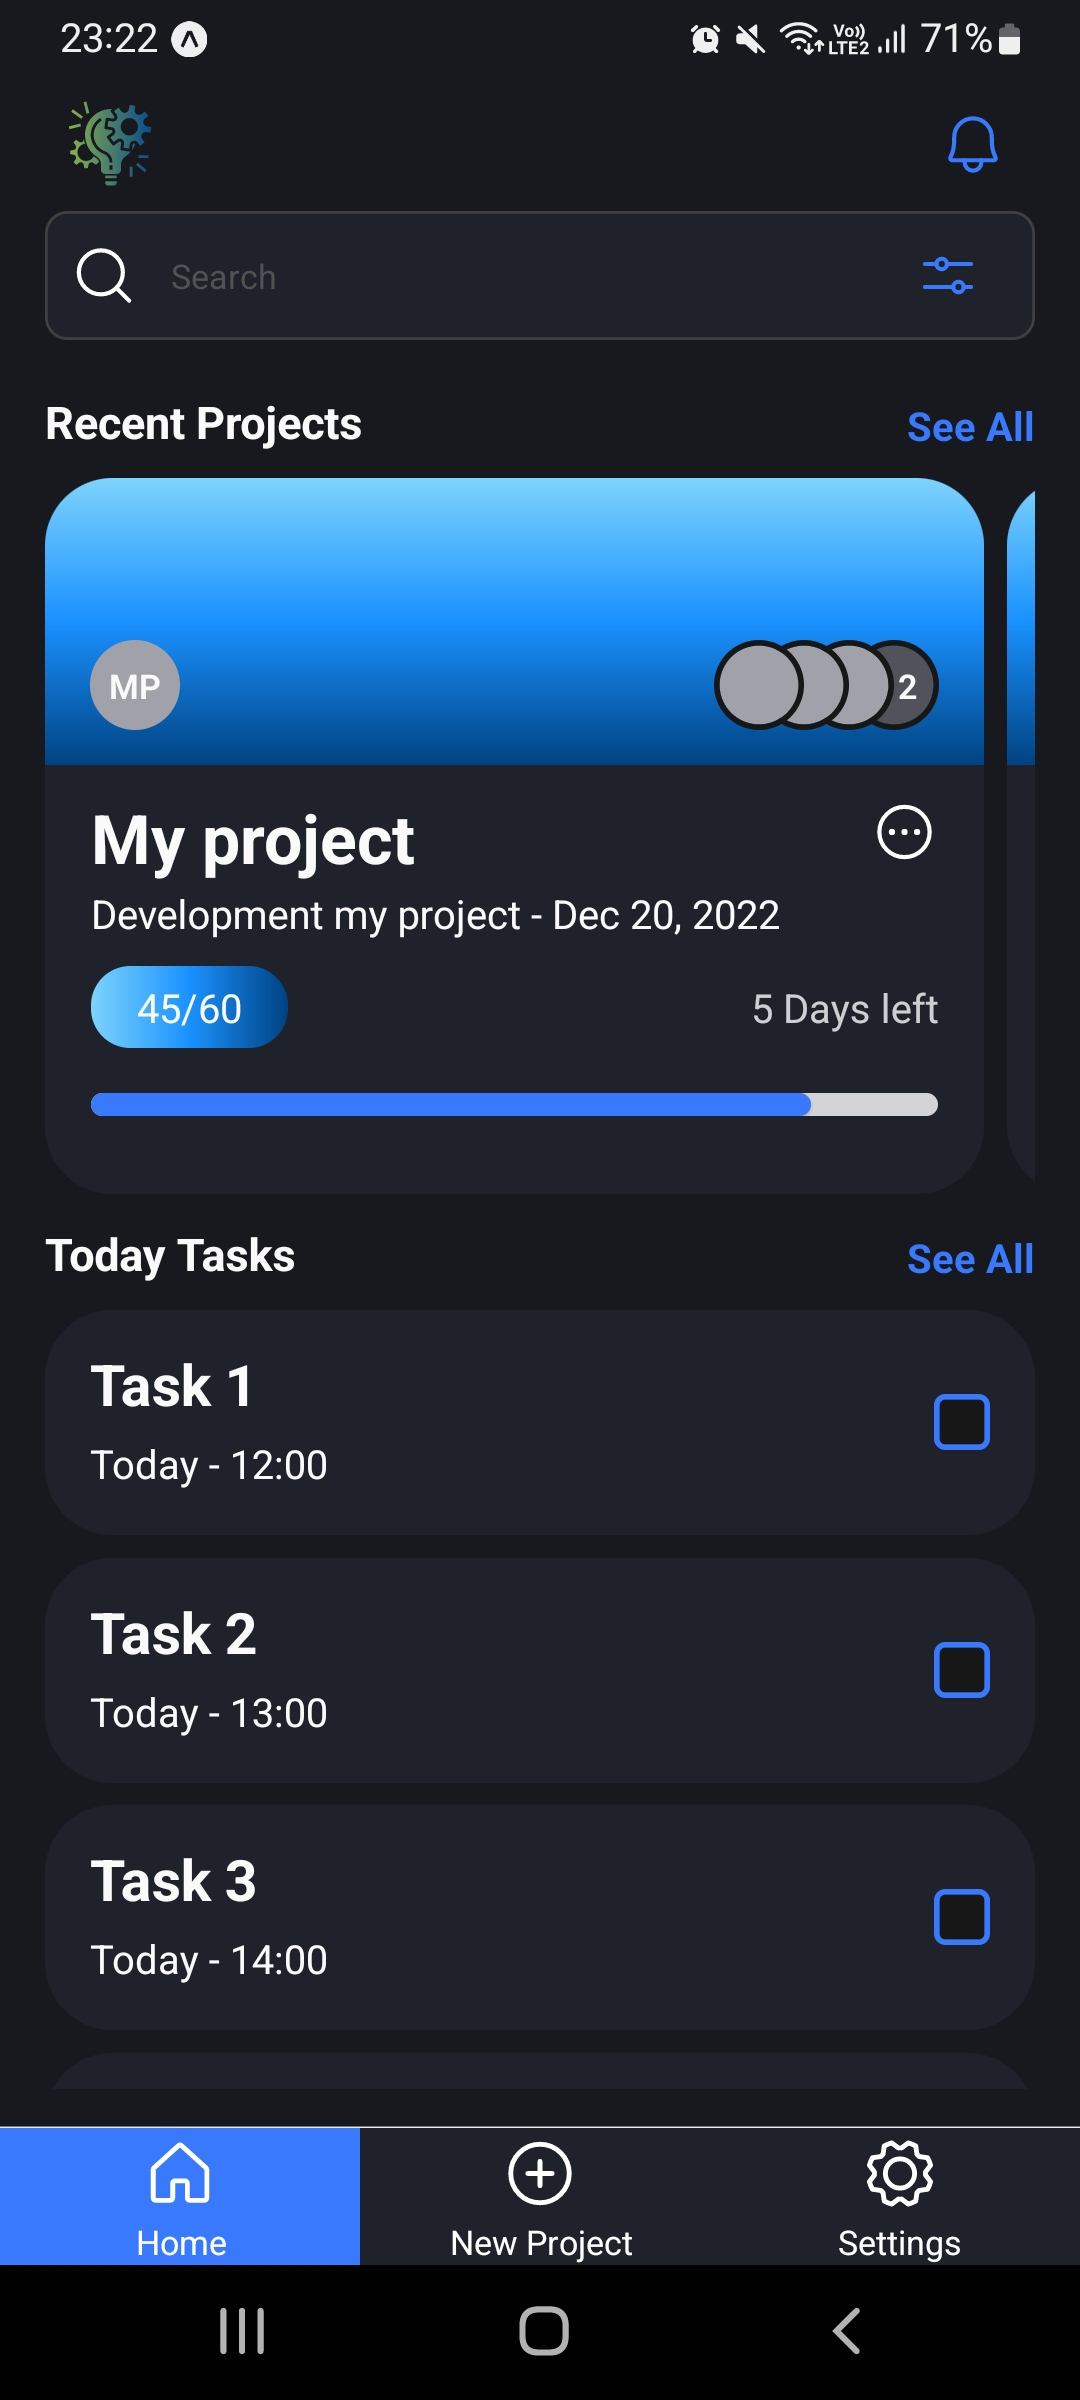
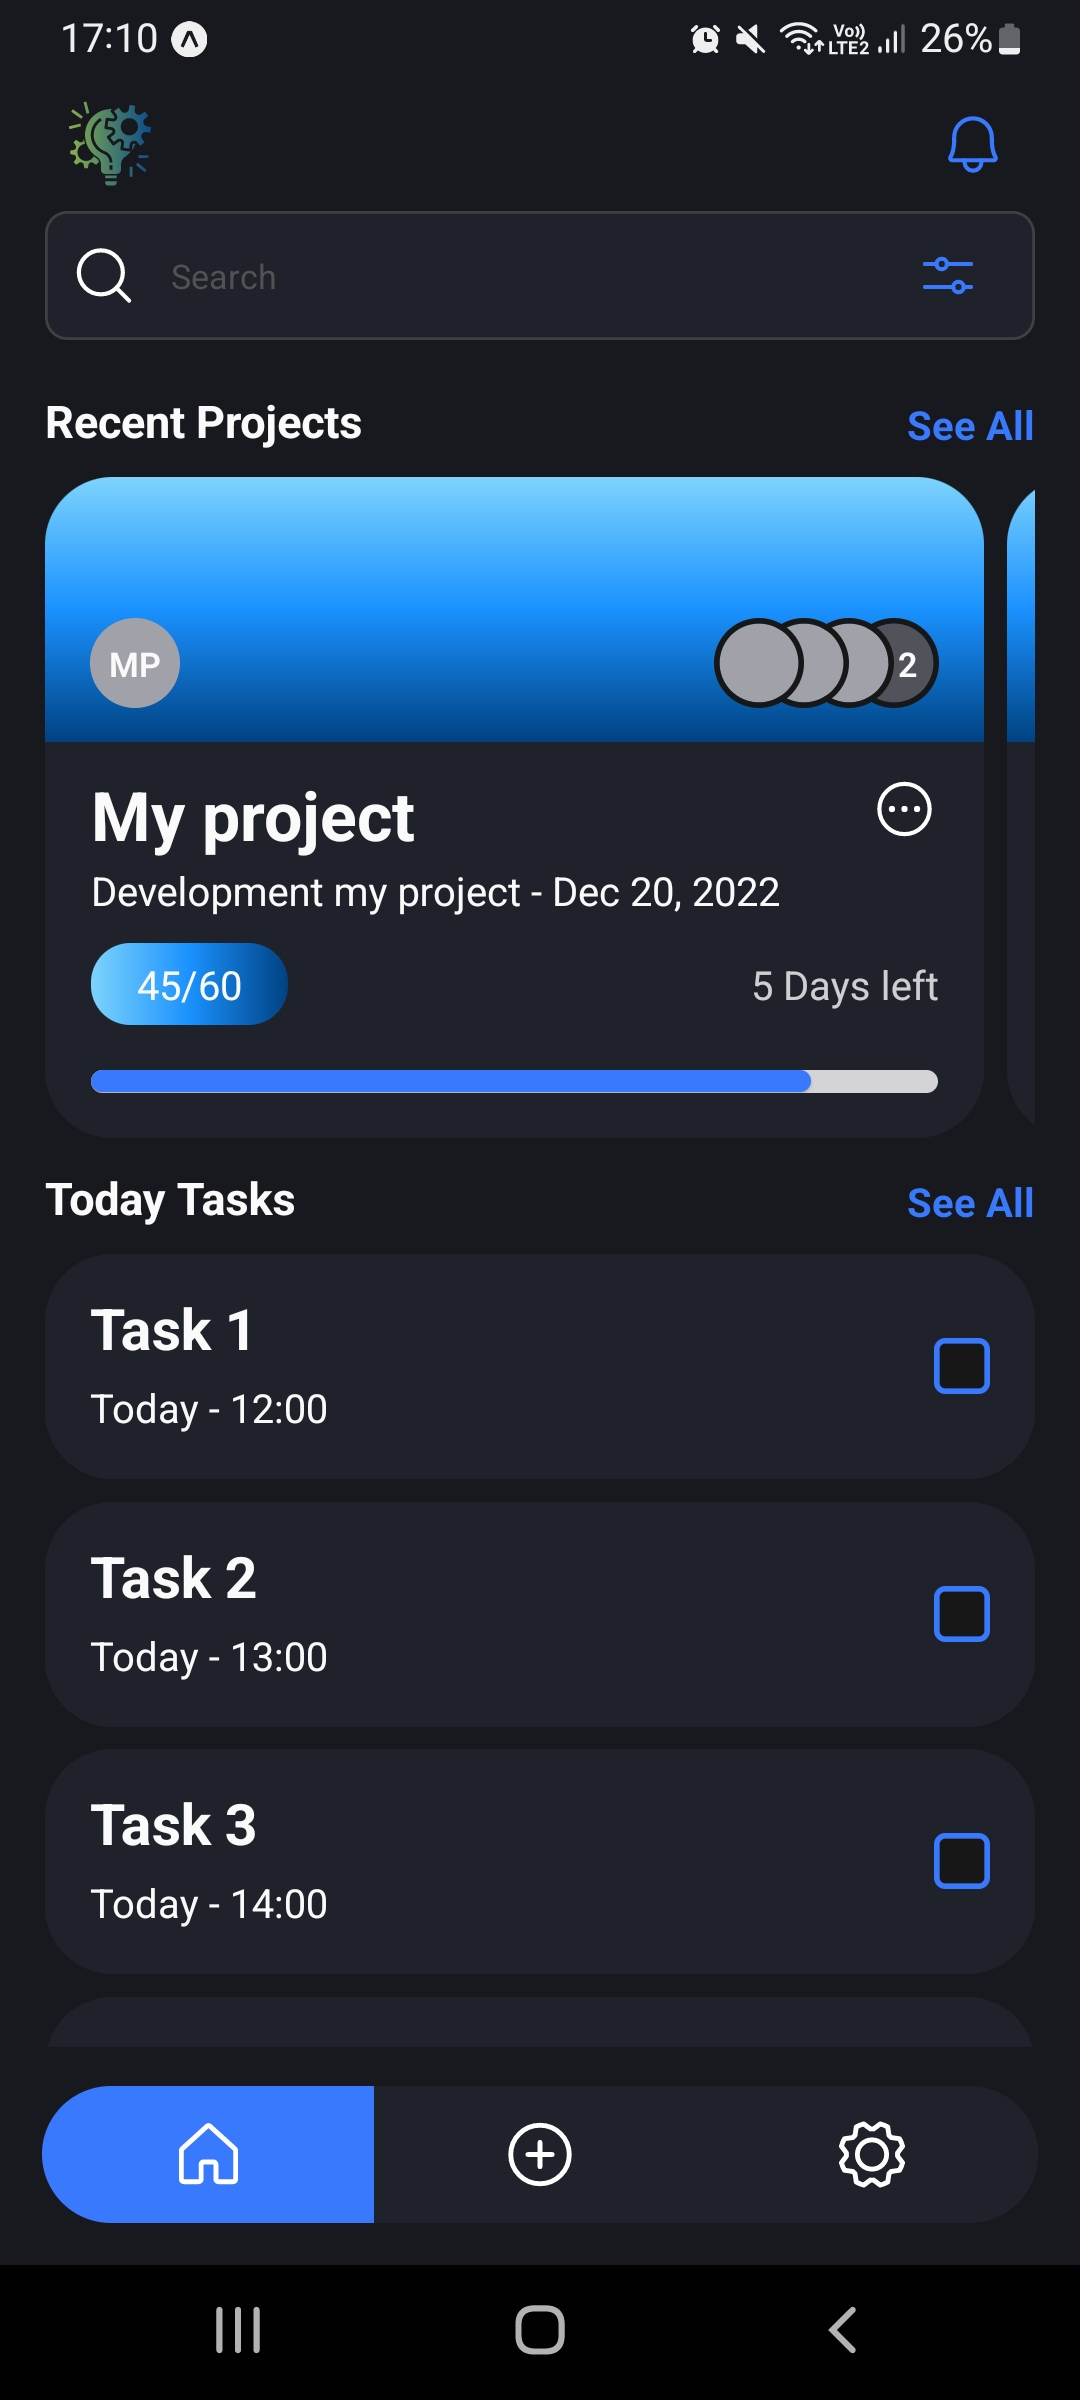
Add bottom tab customization and theme switch

diff --git a/src/navigation/HomeNavigation.tsx b/src/navigation/HomeNavigation.tsx
@@ -16,7 +16,7 @@ export function HomeNavigation() {
 
   const getIconColor = (focused: boolean) => {
     if (focused) {
-      return colorMode === 'light' ? colors.darkText : colors.lightText;
+      return colors.lightText;
     } else {
       return colorMode === 'light' ? colors.darkText : colors.lightText;
     }
@@ -28,19 +28,23 @@ export function HomeNavigation() {
       <Tab.Navigator
         screenOptions={{
           headerShown: false,
+          tabBarShowLabel: false,
           tabBarActiveBackgroundColor: colors.lightBlue[50],
           tabBarActiveTintColor: colors.lightText,
           tabBarInactiveBackgroundColor: colorMode === 'light' ? colors.light[100] : colors.dark[50],
           tabBarInactiveTintColor: colorMode === 'light' ? colors.darkText : colors.lightText,
-          tabBarLabelStyle: { fontSize: sizes[3] }
-          // tabBarStyle: {
-          //   shadowColor: 'transparent',
-          //   borderTopColor: 'transparent',
-          //   marginHorizontal: sizes[2],
-          //   marginBottom: sizes[1],
-          //   borderRadius: sizes[10],
-          //   overflow: 'hidden'
-          // }
+          tabBarLabelStyle: { fontSize: sizes[3] },
+          tabBarStyle: {
+            left: 15,
+            right: 15,
+            bottom: 15,
+            elevation: 0,
+            borderRadius: 25,
+            borderTopColor: 'transparent',
+            overflow: 'hidden',
+            position: 'absolute',
+            backgroundColor: colorMode === 'light' ? colors.light[100] : colors.dark[50]
+          }
         }}
       >
         <Tab.Screen name="Home" component={Home} options={{

diff --git a/src/screens/Settings.tsx b/src/screens/Settings.tsx
@@ -1,7 +1,9 @@
-import { Center, Switch, useColorMode } from 'native-base';
+import { Stack, Switch, Text, useColorMode } from 'native-base';
+import { Eye } from 'phosphor-react-native';
 import { LogBox } from 'react-native';
 
 import { Container } from '../components/common/Container';
+import { MainHeader } from '../components/MainHeader';
 
 export function Settings() {
   const { toggleColorMode } = useColorMode();
@@ -9,9 +11,18 @@ export function Settings() {
 
   return (
     <Container>
-      <Center>
-        <Switch onChange={toggleColorMode} />
-      </Center>
+      <Stack flex={1} mx={4} space={1}>
+        <Stack>
+          <MainHeader />
+        </Stack>
+        <Stack direction='row' alignItems='center' justifyContent='space-between'>
+          <Stack direction='row' alignItems='center' space={2}>
+            <Eye />
+            <Text fontSize='lg'>DarkMode</Text>
+          </Stack>
+          <Switch onChange={toggleColorMode} onTrackColor="lightBlue.50" />
+        </Stack>
+      </Stack>
     </Container>
   );
 }

diff --git a/src/screens/Home.tsx b/src/screens/Home.tsx
@@ -12,11 +12,11 @@ export function Home() {
   return (
     <Container>
       <Stack flex={1} mx={4} space={1}>
-        <Stack h='15%'>
+        <Stack h='14%'>
           <MainHeader />
           <SearchBar />
         </Stack>
-        <Stack h='40%'>
+        <Stack h='35%'>
           <Stack direction='row' justifyContent='space-between' mb={2}>
             <Heading size='sm'>Recent Projects</Heading>
             <OpacityButton title='See All' color='lightBlue.50' bold />
@@ -26,7 +26,7 @@ export function Home() {
             <ProjectCard />
           </ScrollView>
         </Stack>
-        <Stack h='42%'>
+        <Stack h='40%'>
           <Stack direction='row' justifyContent='space-between'>
             <Heading size='sm'>Today Tasks</Heading>
             <OpacityButton title='See All' color='lightBlue.50' bold />

diff --git a/src/components/TaskCard.tsx b/src/components/TaskCard.tsx
@@ -22,7 +22,15 @@ export function TaskCard({ title, hour, done }: ITaskCardProps) {
           <Heading size='md'>{title}</Heading>
           <Text>{hour}</Text>
         </Stack>
-        <Checkbox value='done' accessibilityLabel='done' borderColor='lightBlue.50' />
+        <Checkbox
+          value='done'
+          accessibilityLabel='done'
+          borderColor='lightBlue.50'
+          _checked={{
+            bgColor: 'lightBlue.400',
+            borderColor: 'lightBlue.50'
+          }}
+        />
       </Stack>
     </Stack>
   );

diff --git a/src/screens/Project.tsx b/src/screens/Project.tsx
@@ -1,11 +1,13 @@
-import { Text } from 'native-base';
+import { Center, Text } from 'native-base';
 
 import { Container } from '../components/common/Container';
 
 export function Project() {
   return (
     <Container>
-      <Text>Project</Text>
+      <Center flex={1}>
+        <Text>Project</Text>
+      </Center>
     </Container>
   );
 }

diff --git a/README.md b/README.md
@@ -1,6 +1,6 @@
 # Next Step App
 
-Application for project and task management build with [React Native](https://reactnative.dev/) and [Expo](https://expo.io/).
+Application for project and task management build with [React Native](https://reactnative.dev/) and [Expo](https://expo.io/) managed workflow.
 
 ### Main libraries used
 
@@ -11,6 +11,6 @@ Application for project and task management build with [React Native](https://re
 ### Light and Dark theme
 
 <div>
-  <img src="./docs/views/light-theme.jpg" width="100">
-  <img src="./docs/views/dark-theme.jpg" width="100">
+  <img src="./docs/views/light-theme.jpg" width="150">
+  <img src="./docs/views/dark-theme.jpg" width="150">
 <div>
